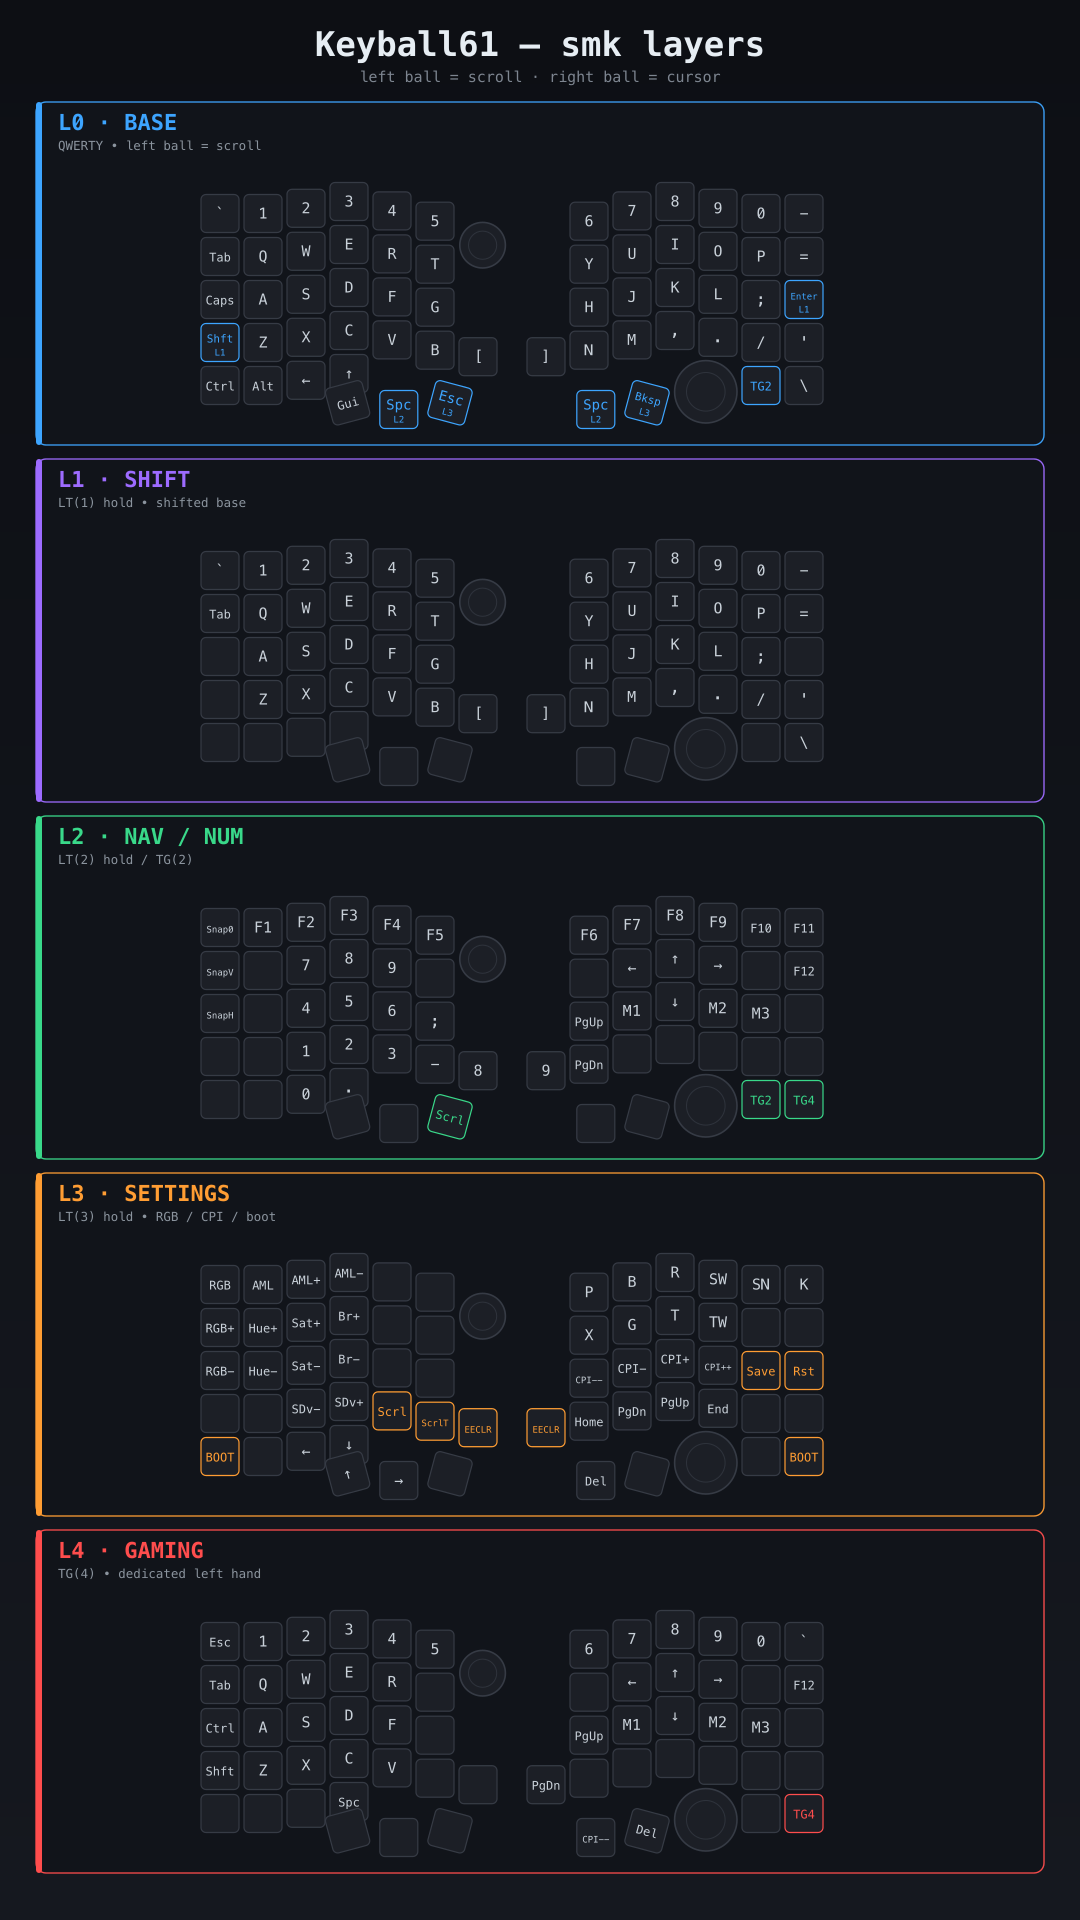
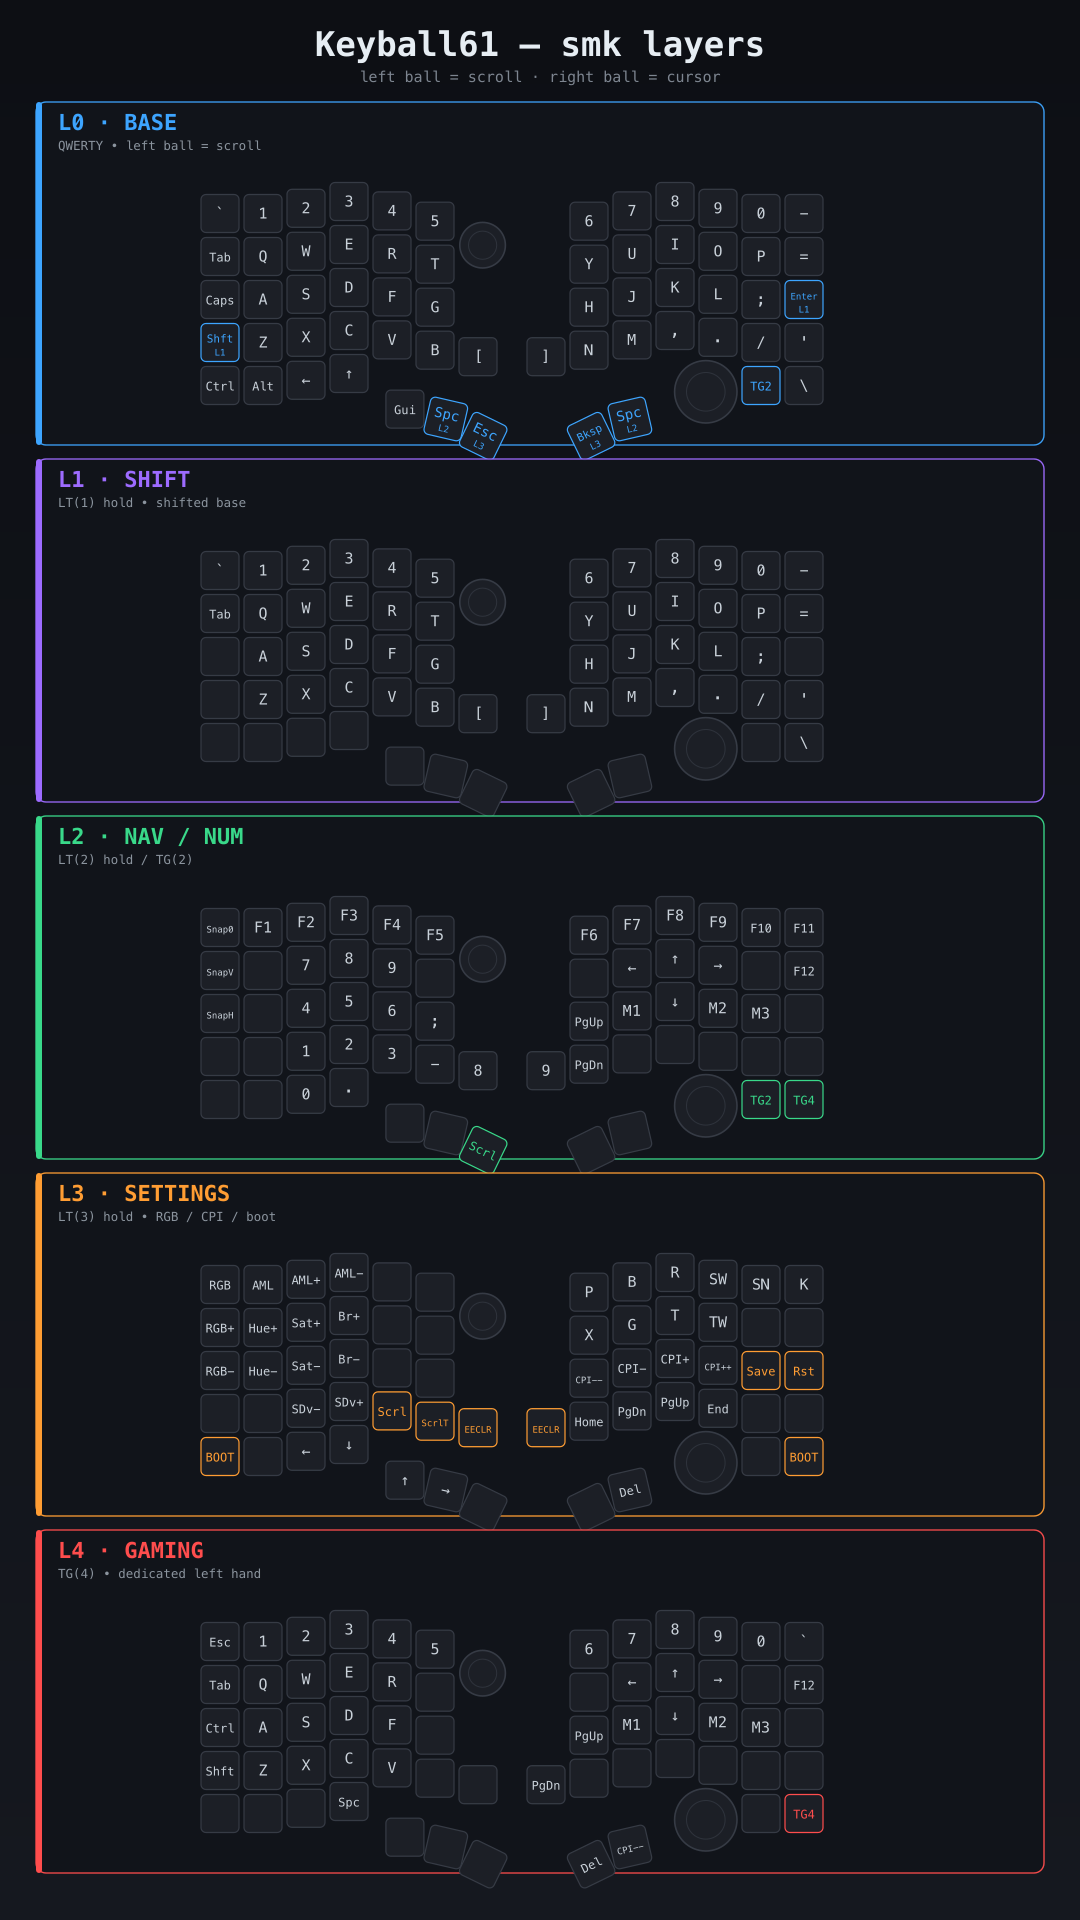
Refine cheatsheet thumb clusters and trackball placement
- Thumb keys placed explicitly per-key (col, dy, rotation) as a monotonic
  fan: outer key square (anchor), inner keys tilt progressively toward
  board centre and step down (Gui->Spc->Esc on the left).
- Right cluster mirrors the left and reserves a ghost slot for the absent
  Gui anchor, shifting Bksp/Spc left so they mirror the left's Spc/Esc and
  the Gui-sized gap opens toward the ball.
- PMW3360 ball centred on the bottom row with grid-gap spacing above/right.

diff --git a/keyboards/keyball/keyball61/keymaps/smk/cheatsheet.py b/keyboards/keyball/keyball61/keymaps/smk/cheatsheet.py
@@ -237,11 +237,15 @@ def render_half(keys, x0, y0, accent, parts, right=False, row_idx=0):
             # row 4: Ctrl Alt <- ^ (cols 0-3 grid) then Gui Spc Esc thumb fan.
             for i in range(4):
                 place(i, COL_STAGGER[i], 0.0, keys[i])
-            # Thumb cluster fans about a shared pivot up and to the left, so the
-            # three keys (Gui->Spc->Esc) splay out along an arc.
-            place_arc(keys[4:7], pivot_col=THUMB_PIVOT_COL,
-                      pivot_dy=THUMB_PIVOT_DY, radius=THUMB_RADIUS,
-                      theta0=THUMB_THETA0, dtheta=THUMB_DTHETA)
+            # Thumb cluster: Gui is the anchor (square with the grid); Spc & Esc
+            # step inward-and-down, tops tilting toward board centre (CW).
+            # Each entry: (key, col, dy, rotation-deg).
+            for kc, col, dy, rot in [
+                (keys[4], 4.30, 0.55, 0.0),   # Gui  - square anchor
+                (keys[5], 5.25, 0.78, 13.0),  # Spc  - tilt toward centre
+                (keys[6], 6.12, 1.18, 26.0),  # Esc  - tilt more, lowest
+            ]:
+                place(col, dy, 0.0, kc, rot=rot)
     else:
         # ---- RIGHT HALF ---- (col 0 = inner / board centre)
         if row_idx < 3:
@@ -258,17 +262,19 @@ def render_half(keys, x0, y0, accent, parts, right=False, row_idx=0):
         else:
             # row 4: Bksp Spc [ball ball ball] TG2 \ .
             # Thumb cluster = Bksp(i0) Spc(i1); TG2(i5) \(i6) shift to cols 4,5.
-            # Fan mirrors the left: pivot up/right of the cluster, angles negated.
-            # Order inner->outer is Spc then Bksp.
-            # Mirror the left fan exactly (same params, reflected about the half
-            # centre col 3). The right cluster has 2 keys; they occupy the
-            # mirror of the left cluster's outer two slots. keys[0]=Bksp (outer)
-            # keys[1]=Spc (inner, nearest centre).
-            place_arc([keys[0], keys[1]],
-                      pivot_col=THUMB_PIVOT_COL,
-                      pivot_dy=THUMB_PIVOT_DY, radius=THUMB_RADIUS,
-                      theta0=THUMB_THETA0, dtheta=THUMB_DTHETA,
-                      mirror=True, mirror_axis=2.6)
+            # Mirror of the left fan: Bksp is the square anchor (sits just left
+            # of the ball); Spc steps inward-and-down toward centre, top tilting
+            # toward centre (CCW). Each entry: (key, col, dy, rotation-deg).
+            # The right cluster reserves a ghost slot mirroring the left's Gui
+            # (the square outer anchor) nearest the ball. Bksp & Spc occupy the
+            # mirror of the left's Spc & Esc slots, shifted one key-slot left so
+            # that ghost gap sits between Spc and the ball.
+            for kc, col, dy, rot in [
+                (keys[0], 0.05, 1.18, -26.0),  # Bksp - innermost (mirror of Esc), most tilt, lowest
+                (keys[1], 0.95, 0.78, -13.0),  # Spc  - middle (mirror of left Spc)
+                # ghost Gui-slot ~col 1.90 (mirror of Gui) intentionally empty
+            ]:
+                place(col, dy, 0.0, kc, rot=rot)
             # TG2(i5)->col4, \(i6)->col5 on the normal grid (no thumb drop).
             for i in (5, 6):
                 col = i - 1        # 4, 5
